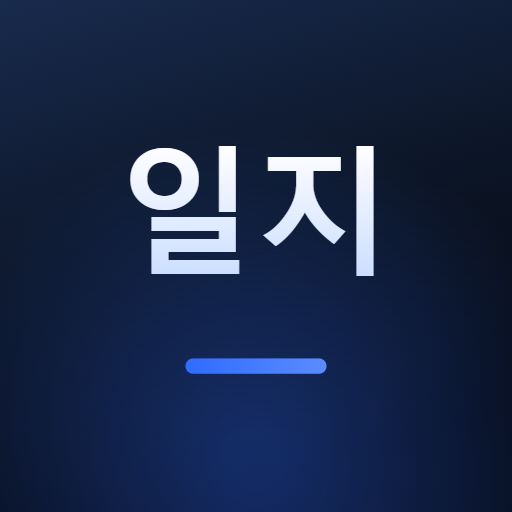
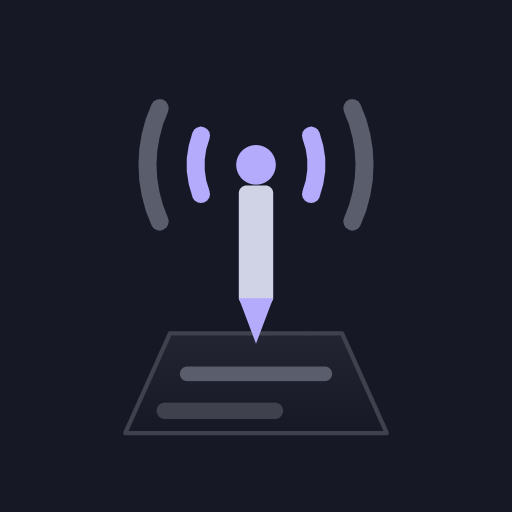
앱 아이콘 교체 — 1c 송신 안테나+연필 (Nocturne, 사용자 핸드오프 디자인)
- 방송 신호 아크 + 연필 + 종이 = 방송 업무일지 작성
- 바탕 #161826 · 액센트 #b5abfc, 원본 SVG(1024) 좌표 그대로 렌더
- icon 192/512(라운드), maskable 2종(안전영역 0.86), apple-touch(180), favicon(32)
- sw v30

diff --git a/sw.js b/sw.js
@@ -1,5 +1,5 @@
 // KBS 일일업무일지 PWA 서비스워커 — 네트워크 우선 + 오프라인 캐시 폴백
-const CACHE = "ilji-v29";
+const CACHE = "ilji-v30";
 const SHELL = [
   "./", "./index.html", "./daily.html", "./cases.html", "./help.html", "./analysis.html", "./ai.html",
   "./hwpx.js", "./photo.js", "./storage.js", "./photoStorage.js",
